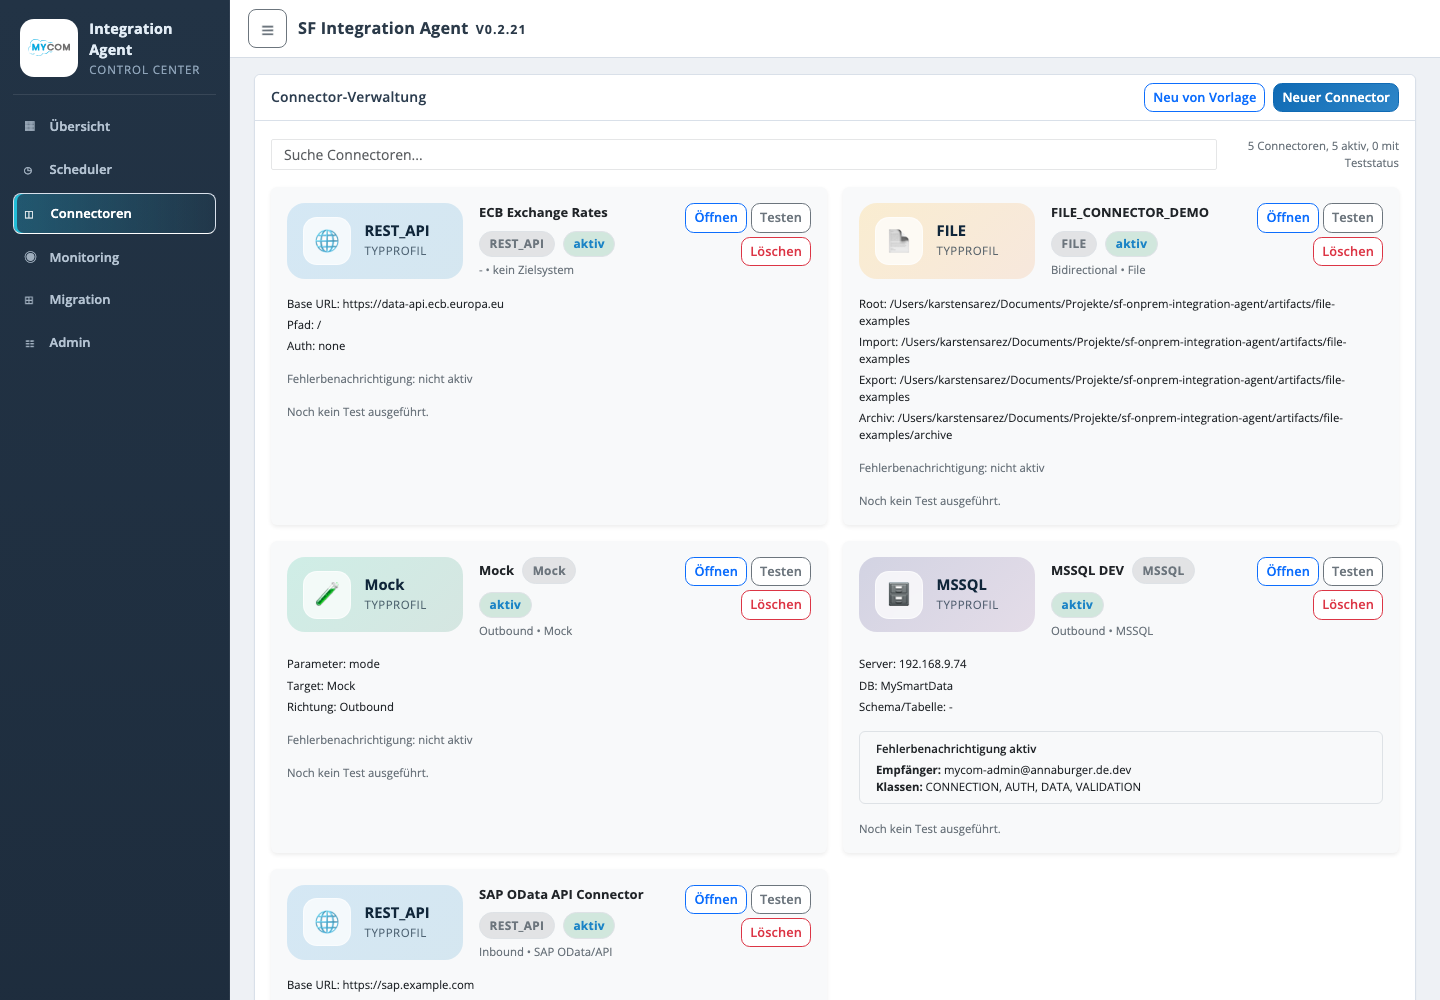
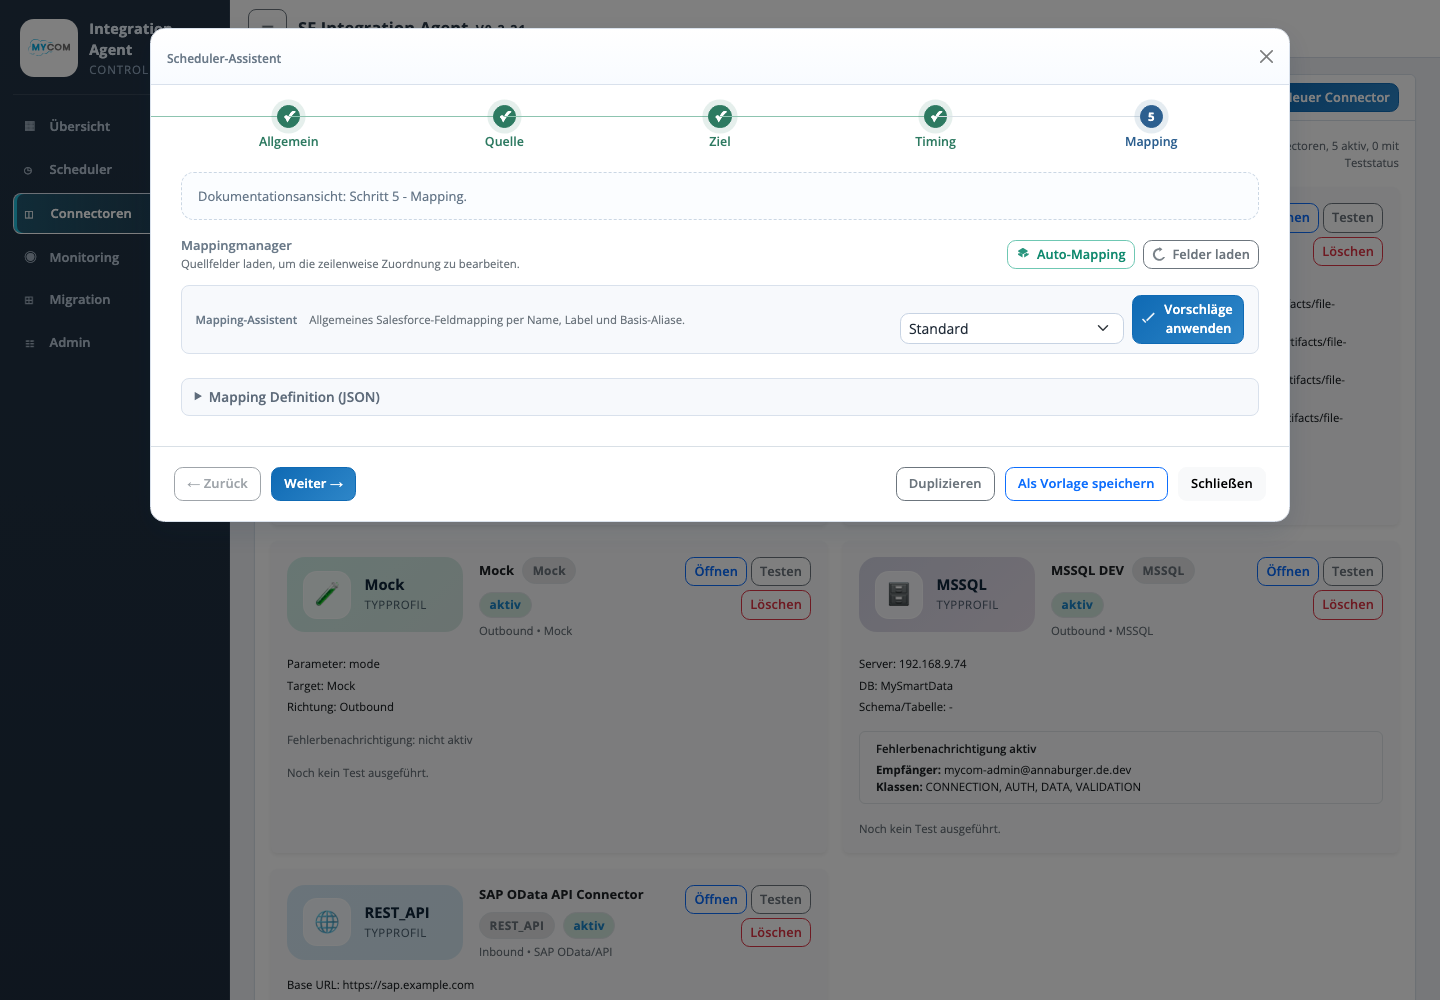
Document scheduler assistant source target mapping

diff --git a/scripts/capture-doc-screenshots.js b/scripts/capture-doc-screenshots.js
@@ -146,6 +146,43 @@ async function showTab(client, selector) {
   await sleep(500);
 }
 
+async function showSchedulerWizardStep(client, step) {
+  await client.send("Runtime.evaluate", {
+    awaitPromise: true,
+    expression: `
+      (async () => {
+        const newButton = document.querySelector('#new-schedule');
+        if (newButton && !document.querySelector('#schedule-modal.show')) {
+          newButton.click();
+          await new Promise((resolve) => setTimeout(resolve, 900));
+        }
+        const stepButton = document.querySelector('[data-sch-step="${String(step)}"]');
+        const stepPanel = document.querySelector('[data-sch-step-panel="${String(step)}"]');
+        if (!stepButton || !stepPanel) return false;
+        document.querySelectorAll('[data-sch-step]').forEach((button) => {
+          const buttonStep = Number(button.getAttribute('data-sch-step') || '0');
+          button.classList.toggle('is-active', button === stepButton);
+          button.classList.toggle('is-complete', buttonStep > 0 && buttonStep < ${String(step)});
+        });
+        document.querySelectorAll('[data-sch-step-panel]').forEach((panel) => {
+          const isActive = panel === stepPanel;
+          panel.classList.toggle('show', isActive);
+          panel.classList.toggle('active', isActive);
+          panel.classList.toggle('d-none', !isActive);
+        });
+        const hint = document.querySelector('#sch-wizard-hint');
+        if (hint) {
+          const labels = { 2: 'Quelle', 3: 'Ziel', 5: 'Mapping' };
+          hint.textContent = 'Dokumentationsansicht: Schritt ' + ${String(step)} + ' - ' + (labels[${String(step)}] || 'Scheduler-Assistent') + '.';
+        }
+        await new Promise((resolve) => setTimeout(resolve, 900));
+        return true;
+      })()
+    `
+  });
+  await sleep(500);
+}
+
 async function main() {
   if (!fs.existsSync(chromePath)) {
     throw new Error(`Chrome not found at ${chromePath}`);
@@ -220,6 +257,12 @@ async function main() {
 
     await showTab(client, '[data-bs-target="#tab-schedulers"]');
     await screenshotMany(client, ["03-scheduler.png", "09-assistent-scheduler.png"]);
+    await showSchedulerWizardStep(client, 2);
+    await screenshotMany(client, ["11-assistent-quelle.png"]);
+    await showSchedulerWizardStep(client, 3);
+    await screenshotMany(client, ["12-assistent-ziel.png"]);
+    await showSchedulerWizardStep(client, 5);
+    await screenshotMany(client, ["13-assistent-mapping.png"]);
 
     await showTab(client, '[data-bs-target="#tab-connectors"]');
     await screenshotMany(client, ["04-connectoren.png", "08-assistent-connector.png"]);

diff --git a/docs/confluence/04-funktionsdokumentation/assistenten/05-ziel.md b/docs/confluence/04-funktionsdokumentation/assistenten/05-ziel.md
@@ -1,0 +1,39 @@
+---
+connie-publish: true
+connie-title: 06.5 - Assistent Ziel
+tags:
+  - sf-onprem-integration-agent
+  - assistent
+  - ziel
+---
+
+# Assistent Ziel
+
+![Assistent Ziel](../../assets/screenshots/12-assistent-ziel.png)
+
+Der Schritt Ziel beschreibt, wohin die gelesenen und gemappten Datensaetze geschrieben werden. Er verbindet fachliches Zielsystem, Zielobjekt, Operation, Target Type und technische Target Definition.
+
+## Eingaben
+
+| Feld | Bedeutung |
+| --- | --- |
+| Target System | Fachliche Bezeichnung des Zielsystems, z. B. Salesforce, MSSQL oder Dateiablage. |
+| Objekt | Zielobjekt oder Zielname, z. B. Salesforce-Objekt oder Tabellen-/Dateikontext. |
+| Operation | Verarbeitung wie Insert, Update, Upsert oder Delete, sofern vom Zieltyp unterstuetzt. |
+| Target Type | Technischer Zieltyp wie `SALESFORCE`, `SALESFORCE_GLOBAL_PICKLIST`, `MSSQL`, `FILE_CSV`, `FILE_EXCEL` oder `FILE_JSON`. |
+| Direction | Richtung des Integrationslaufs, z. B. Inbound oder Outbound. |
+| Upsert Feld | Externe ID oder Schluesselfeld fuer Upsert-Operationen. |
+| Target Definition | JSON-Konfiguration fuer Zielfelder, Dateiausgabe, Tabellenziel oder Speziallogik. |
+
+## Validierung
+
+| Pruefung | Ergebnis |
+| --- | --- |
+| Zielobjekt vorhanden | Prueft, ob das konfigurierte Ziel erreichbar und fachlich plausibel ist. |
+| Upsert-Feld gesetzt | Stellt sicher, dass Upsert-Laeufe ein eindeutiges Zielfeld besitzen. |
+| Pflichtfelder abgedeckt | Vergleicht Zielpflichtfelder mit Mapping und festen Zielwerten. |
+| Custom-Objekt erzeugen | Kann bei passenden Quellen ein Salesforce Custom-Objekt aus Quellfeldern vorbereiten. |
+
+## Betriebswirkung
+
+Die Zielkonfiguration bestimmt Schreibverhalten, Idempotenz und Fehlerklasse eines Laufs. Unvollstaendige Zieldefinitionen fuehren zu fehlgeschlagenen Upserts, Pflichtfeldfehlern oder nicht erzeugten Ausgabedateien.

diff --git a/docs/confluence/04-funktionsdokumentation/assistenten/04-quelle.md b/docs/confluence/04-funktionsdokumentation/assistenten/04-quelle.md
@@ -1,0 +1,37 @@
+---
+connie-publish: true
+connie-title: 06.4 - Assistent Quelle
+tags:
+  - sf-onprem-integration-agent
+  - assistent
+  - quelle
+---
+
+# Assistent Quelle
+
+![Assistent Quelle](../../assets/screenshots/11-assistent-quelle.png)
+
+Der Schritt Quelle beschreibt, woher ein Scheduler seine Daten liest. Er legt Source System, Source Type, technische Abfrage oder Dateipfade sowie optionale Delta- und After-Export-Regeln fest.
+
+## Eingaben
+
+| Feld | Bedeutung |
+| --- | --- |
+| Source System | Fachliche Bezeichnung des Quellsystems, z. B. Salesforce, SAGE100, MSSQL oder Dateiablage. |
+| Source Type | Technischer Quelltyp wie `SALESFORCE_SOQL`, `MSSQL_SQL`, `REST_API`, `FILE_CSV`, `FILE_EXCEL` oder `FILE_JSON`. |
+| Source Definition | SOQL, SQL, REST-/Datei-Konfiguration oder JSON-Definition der Quelle. |
+| Delta Modus | Optionaler Modus fuer inkrementelle Laeufe ueber Datum, Timestamp oder ID. |
+| Delta Feld | Feld, dessen letzter Wert als Checkpoint gespeichert wird. |
+| After Export Updates | Optionale Aktualisierung erfolgreicher Salesforce-Quellsatze nach einem Export. |
+
+## Validierung
+
+| Pruefung | Ergebnis |
+| --- | --- |
+| Quelle testen | Liest bis zu 10 Datensaetze und zeigt eine Quellvorschau. |
+| Konfiguration pruefen | Validiert Pflichtfelder und technische Definition. |
+| SQL Syntax-Preview | Zeigt die Abfrage lesbar an, sofern eine SQL-Quelle verwendet wird. |
+
+## Betriebswirkung
+
+Die Quellkonfiguration bestimmt, welche Datensaetze ein Lauf liest. Fehler in diesem Schritt fuehren typischerweise zu leeren Runs, Authentifizierungsfehlern, Parserfehlern oder fehlenden Quellfeldern im Mapping.

diff --git a/docs/confluence/04-funktionsdokumentation/assistenten/06-mapping.md b/docs/confluence/04-funktionsdokumentation/assistenten/06-mapping.md
@@ -1,0 +1,38 @@
+---
+connie-publish: true
+connie-title: 06.6 - Assistent Mapping
+tags:
+  - sf-onprem-integration-agent
+  - assistent
+  - mapping
+---
+
+# Assistent Mapping
+
+![Assistent Mapping](../../assets/screenshots/13-assistent-mapping.png)
+
+Der Schritt Mapping verbindet Quellfelder mit Zielfeldern. Er dokumentiert Feldzuordnungen, Datentypen, Transform-Funktionen, Lookups und Picklist-Mappings.
+
+## Eingaben
+
+| Bereich | Bedeutung |
+| --- | --- |
+| Quellfelder | Felder aus Quelle oder Quellvorschau, die als Mapping-Eingang verwendet werden. |
+| Zielfelder | Felder des Zielsystems, z. B. Salesforce-Felder oder Dateispalten. |
+| Transform | Optionale Umwandlung wie Trim, Datumsformat, Zahlkonvertierung oder statischer Wert. |
+| Lookup | Aufloesung einer Fremdbeziehung, z. B. Account ueber externe Kundennummer. |
+| Picklist-Mapping | Uebersetzung fachlicher Quellwerte auf gueltige Zielwerte. |
+| Raw Mapping Definition | Technische JSON-/DSL-Darstellung der Mapping-Regeln. |
+
+## Validierung
+
+| Pruefung | Ergebnis |
+| --- | --- |
+| Quellfelder laden | Aktualisiert verfuegbare Quellfelder aus der Source Definition. |
+| Zielfelder laden | Aktualisiert Zielmetadaten aus dem Target System. |
+| Mapping-Vorschau | Wendet Mapping-Regeln auf Beispieldaten an. |
+| Pflichtfeldpruefung | Markiert fehlende Zielpflichtfelder oder inkompatible Typen. |
+
+## Betriebswirkung
+
+Das Mapping bestimmt die fachliche Qualitaet der geschriebenen Datensaetze. Fehler in diesem Schritt fuehren zu fehlenden Zielwerten, falschen Datentypen, fehlgeschlagenen Lookups oder ungueltigen Picklist-Werten.

diff --git a/docs/confluence-publishing.md b/docs/confluence-publishing.md
@@ -43,6 +43,9 @@ Aktuelle Seitenstruktur:
 | `04-funktionsdokumentation/assistenten/01-connector.md` | 06.1 - Assistent Connector |
 | `04-funktionsdokumentation/assistenten/02-scheduler.md` | 06.2 - Assistent Scheduler |
 | `04-funktionsdokumentation/assistenten/03-migration.md` | 06.3 - Assistent Migration |
+| `04-funktionsdokumentation/assistenten/04-quelle.md` | 06.4 - Assistent Quelle |
+| `04-funktionsdokumentation/assistenten/05-ziel.md` | 06.5 - Assistent Ziel |
+| `04-funktionsdokumentation/assistenten/06-mapping.md` | 06.6 - Assistent Mapping |
 | `05-betrieb-und-sicherheit.md` | 05 - Betrieb und Sicherheit |
 | `ReleaseNotes.md` | ReleaseNotes |
 
@@ -54,6 +57,9 @@ Screenshot-Anlagen:
 | `08-assistent-connector.png` | Assistent Connector |
 | `09-assistent-scheduler.png` | Assistent Scheduler |
 | `10-assistent-migration.png` | Assistent Migration |
+| `11-assistent-quelle.png` | Assistent Quelle |
+| `12-assistent-ziel.png` | Assistent Ziel |
+| `13-assistent-mapping.png` | Assistent Mapping |
 
 ## GitHub Secrets
 

diff --git a/docs/confluence/04-funktionsdokumentation/assistenten/assistenten.md b/docs/confluence/04-funktionsdokumentation/assistenten/assistenten.md
@@ -17,6 +17,9 @@ Die Assistenten fuehren Administratoren durch zusammenhaengende Konfigurations- 
 | [Connector-Assistent](./01-connector.md) | Technische Endpunkte anlegen, testen und Schedulern zuordnen |
 | [Scheduler-Assistent](./02-scheduler.md) | Integrationsprofile zeitlich steuern und Laeufe kontrollieren |
 | [Migrations-Assistent](./03-migration.md) | Einmalige Datenuebernahmen vorbereiten, pruefen und ausfuehren |
+| [Quelle](./04-quelle.md) | Datenquelle, Source Type, Source Definition und Quellvorschau dokumentieren |
+| [Ziel](./05-ziel.md) | Zielsystem, Zielobjekt, Operation und Target Definition dokumentieren |
+| [Mapping](./06-mapping.md) | Feldzuordnungen, Transform-Regeln und Mapping-Vorschau dokumentieren |
 
 ## Zusammenspiel
 
